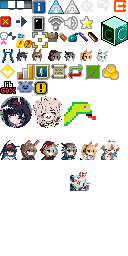
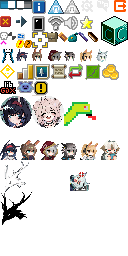
토스

Changed region(s): [[0.0, 0.625, 0.25, 0.875], [0.0312, 0.625, 0.0625, 0.6875]]

diff --git a/Arrrknights/core/src/main/java/com/shatteredpixel/shatteredpixeldungeon/scenes/AboutScene.java b/Arrrknights/core/src/main/java/com/shatteredpixel/shatteredpixeldungeon/scenes/AboutScene.java
@@ -57,22 +57,22 @@ public class AboutScene extends PixelScene {
 
 		//*** Shattered Pixel Dungeon Credits ***
 
-		String shpxLink = "https://ShatteredPixel.com";
+		String shpxLink = "https://www.patreon.com/roguenight";
 		//tracking codes, so that the website knows where this pageview came from
 		shpxLink += "?utm_source=shatteredpd";
 		shpxLink += "&utm_medium=about_page";
 		shpxLink += "&utm_campaign=ingame_link";
 
-		CreditsBlock shpx = new CreditsBlock(true, Window.SHPX_COLOR,
+		CreditsBlock shpx = new CreditsBlock(true, Window.ARKPD_COLOR,
 				"Tomorrow's Roguenight",
 				Icons.SHPX.get(),
 				"Developed by: _NamSek & mizq4482_\nBased on Pixel Dungeon's open source",
-				"ShatteredPixel.com",
+				"www.patreon.com/roguenight",
 				shpxLink);
 		shpx.setRect((w - fullWidth)/2f, 6, 120, 0);
 		content.add(shpx);
 
-		CreditsBlock alex = new CreditsBlock(false, Window.SHPX_COLOR,
+		CreditsBlock alex = new CreditsBlock(false, Window.ARKPD_COLOR,
 				"Pixel Art & Design:",
 				Icons.ALEKS.get(),
 				"NamSek",
@@ -86,7 +86,7 @@ public class AboutScene extends PixelScene {
 		}
 		content.add(alex);
 
-		CreditsBlock charlie = new CreditsBlock(false, Window.SHPX_COLOR,
+		CreditsBlock charlie = new CreditsBlock(false, Window.ARKPD_COLOR,
 				"Programming:",
 				Icons.CHARLIE.get(),
 				"mizq4482",
@@ -94,6 +94,25 @@ public class AboutScene extends PixelScene {
 				"https://mizq4482.tistory.com/");
 		charlie.setRect(alex.right(), alex.top(), colWidth/2f, 0);
 		content.add(charlie);
+
+
+		//*** hypergraph Credits ***
+
+		final int HYPER_COLOR = 0xFFFFFF;
+		CreditsBlock hyper = new CreditsBlock(true, HYPER_COLOR,
+				"Hypergryph",
+				Icons.HYPER.get(),
+				"Graphic & Sound ip used",
+				"hypergryph.com",
+				"https://ak.hypergryph.com/");
+		if (landscape()){
+			hyper.setRect(shpx.left(), shpx.top() + 8, colWidth, 0);
+		} else {
+			hyper.setRect(shpx.left(), alex.bottom() + 8, colWidth, 0);
+		}
+		content.add(hyper);
+
+		addLine(hyper.top() - 4, content);
 
 		//*** Pixel Dungeon Credits ***
 
@@ -105,7 +124,7 @@ public class AboutScene extends PixelScene {
 				"pixeldungeon.watabou.ru",
 				"http://pixeldungeon.watabou.ru");
 		if (landscape()){
-			wata.setRect(shpx.left(), shpx.bottom() + 8, colWidth, 0);
+			wata.setRect(hyper.left(), hyper.bottom() + 8, colWidth, 0);
 		} else {
 			wata.setRect(shpx.left(), alex.bottom() + 8, colWidth, 0);
 		}
@@ -154,7 +173,7 @@ public class AboutScene extends PixelScene {
 
 		CreditsBlock arcnor = new CreditsBlock(false, GDX_COLOR,
 				"Pixel Dungeon GDX:",
-				Icons.ARCNOR.get(),
+				Icons.LIBGDX.get(),
 				"Edu García",
 				"twitter.com/arcnor",
 				"https://twitter.com/arcnor");
@@ -168,7 +187,7 @@ public class AboutScene extends PixelScene {
 
 		CreditsBlock purigro = new CreditsBlock(false, GDX_COLOR,
 				"Shattered GDX Help:",
-				Icons.PURIGRO.get(),
+				Icons.LIBGDX.get(),
 				"Kevin MacMartin",
 				"github.com/prurigro",
 				"https://github.com/prurigro/");
@@ -181,9 +200,9 @@ public class AboutScene extends PixelScene {
 				Window.TITLE_COLOR,
 				null,
 				null,
-				"ShatteredPD is community-translated via _Transifex_! Thank you so much to all of Shattered's volunteer translators!",
-				"www.transifex.com/shattered-pixel/",
-				"https://www.transifex.com/shattered-pixel/shattered-pixel-dungeon/");
+				"Tomorrow's Roguenight is community-translated via _Transifex_! Thank you so much to all of Shattered's volunteer translators!",
+				"www.transifex.com/team-rosemari/",
+				"https://www.transifex.com/team-rosemari/tomorrows-roguenight/");
 		transifex.setRect((Camera.main.width - colWidth)/2f, purigro.bottom() + 8, colWidth, 0);
 		content.add(transifex);
 
@@ -191,40 +210,11 @@ public class AboutScene extends PixelScene {
 
 		addLine(transifex.bottom() + 4, content);
 
-		//*** Freesound Credits ***
 
-		CreditsBlock freesound = new CreditsBlock(true,
-				Window.TITLE_COLOR,
-				null,
-				null,
-				"Shattered Pixel Dungeon uses the following sound samples from _freesound.org_:\n\n" +
+		transifex.setRect(transifex.left()-10, transifex.bottom() + 8, colWidth+20, 0);
+		content.add(transifex);
 
-				"Creative Commons Attribution License:\n" +
-				"_SFX ATTACK SWORD 001.wav_ by _JoelAudio_\n" +
-				"_Pack: Slingshots and Longbows_ by _saturdaysoundguy_\n" +
-				"_Cracking/Crunching, A.wav_ by _InspectorJ_\n" +
-				"_Extracting a sword.mp3_ by _Taira Komori_\n" +
-				"_Pack: Uni Sound Library_ by _timmy h123_\n\n" +
-
-				"Creative Commons Zero License:\n" +
-				"_Pack: Movie Foley: Swords_ by _Black Snow_\n" +
-				"_machine gun shot 2.flac_ by _qubodup_\n" +
-				"_m240h machine gun burst 4.flac_ by _qubodup_\n" +
-				"_Pack: Onomatopoeia_ by _Adam N_\n" +
-				"_Pack: Watermelon_ by _lolamadeus_\n" +
-				"_metal chain_ by _Mediapaja2009_\n" +
-				"_Pack: Sword Clashes Pack_ by _JohnBuhr_\n" +
-				"_Pack: Metal Clangs and Pings_ by _wilhellboy_\n" +
-				"_Pack: Stabbing Stomachs & Crushing Skulls_ by _TheFilmLook_\n" +
-				"_Sheep bleating_ by _zachrau_\n" +
-				"_Lemon,Juicy,Squeeze,Fruit.wav_ by _Filipe Chagas_\n" +
-				"_Lemon,Squeeze,Squishy,Fruit.wav_ by _Filipe Chagas_",
-				"www.freesound.org",
-				"https://www.freesound.org");
-		freesound.setRect(transifex.left()-10, transifex.bottom() + 8, colWidth+20, 0);
-		content.add(freesound);
-
-		content.setSize( fullWidth, freesound.bottom()+10 );
+		content.setSize( fullWidth, transifex.bottom()+10 );
 
 		list.setRect( 0, 0, w, h );
 		list.scrollTo(0, 0);

diff --git a/Arrrknights/core/src/main/java/com/shatteredpixel/shatteredpixeldungeon/scenes/TitleScene.java b/Arrrknights/core/src/main/java/com/shatteredpixel/shatteredpixeldungeon/scenes/TitleScene.java
@@ -243,7 +243,7 @@ public class TitleScene extends PixelScene {
 			}
 
 			if (unreadCount > 0){
-				textColor(ColorMath.interpolate( 0xFFFFFF, Window.SHPX_COLOR, 0.5f + (float)Math.sin(Game.timeTotal*5)/2f));
+				textColor(ColorMath.interpolate( 0xFFFFFF, Window.ARKPD_COLOR, 0.5f + (float)Math.sin(Game.timeTotal*5)/2f));
 			}
 		}
 
@@ -274,7 +274,7 @@ public class TitleScene extends PixelScene {
 			}
 
 			if (updateShown) {
-				textColor(ColorMath.interpolate(0xFFFFFF, Window.SHPX_COLOR, 0.5f + (float) Math.sin(Game.timeTotal * 5) / 2f));
+				textColor(ColorMath.interpolate(0xFFFFFF, Window.ARKPD_COLOR, 0.5f + (float) Math.sin(Game.timeTotal * 5) / 2f));
 			}
 		}
 

diff --git a/Arrrknights/core/src/main/java/com/shatteredpixel/shatteredpixeldungeon/ui/Icons.java b/Arrrknights/core/src/main/java/com/shatteredpixel/shatteredpixeldungeon/ui/Icons.java
@@ -92,7 +92,8 @@ public enum Icons {
 	P_RED,
 	GREY,
 	NEARL,
-	ROSEMARI;
+	ROSEMARI,
+	HYPER;
 
 	public Image get() {
 		return get( this );
@@ -214,7 +215,12 @@ public enum Icons {
 				icon.frame(icon.texture.uvRect(100, 140, 120, 160));
 				break;
 
-		case ENTER:
+			case HYPER:
+				icon.frame(icon.texture.uvRect(0, 160, 32, 192));
+				break;
+
+
+			case ENTER:
 			icon.frame( icon.texture.uvRect( 0, 64, 16, 80 ) );
 			break;
 		case RANKINGS:

diff --git a/Arrrknights/core/src/main/java/com/shatteredpixel/shatteredpixeldungeon/scenes/RankingsScene.java b/Arrrknights/core/src/main/java/com/shatteredpixel/shatteredpixeldungeon/scenes/RankingsScene.java
@@ -107,7 +107,7 @@ public class RankingsScene extends PixelScene {
 				
 				RenderedTextBlock label = PixelScene.renderTextBlock( 8 );
 				label.hardlight( 0xCCCCCC );
-				label.setHightlighting(true, Window.SHPX_COLOR);
+				label.setHightlighting(true, Window.ARKPD_COLOR);
 				label.text( Messages.get(this, "total") + " _" + Rankings.INSTANCE.wonNumber + "_/" + Rankings.INSTANCE.totalNumber );
 				add( label );
 				

diff --git a/Arrrknights/core/src/main/java/com/shatteredpixel/shatteredpixeldungeon/scenes/InterlevelScene.java b/Arrrknights/core/src/main/java/com/shatteredpixel/shatteredpixeldungeon/scenes/InterlevelScene.java
@@ -228,7 +228,7 @@ public class InterlevelScene extends PixelScene {
 				}
 			};
 			install.icon(Icons.get(Icons.CHANGES));
-			install.textColor(Window.SHPX_COLOR);
+			install.textColor(Window.ARKPD_COLOR);
 			install.setSize(install.reqWidth()+5, 20);
 			install.setPos((Camera.main.width - install.width())/2, (Camera.main.height - message.bottom())/3 + message.bottom());
 			add(install);

diff --git a/Arrrknights/core/src/main/java/com/shatteredpixel/shatteredpixeldungeon/ui/Window.java b/Arrrknights/core/src/main/java/com/shatteredpixel/shatteredpixeldungeon/ui/Window.java
@@ -48,7 +48,7 @@ public class Window extends Group implements Signal.Listener<KeyEvent> {
 
 	public static final int WHITE = 0xFFFFFF;
 	public static final int TITLE_COLOR = 0xFFFF44;
-	public static final int SHPX_COLOR = 0x33BB33;
+	public static final int ARKPD_COLOR = 0x7EA19E;
 	
 	public Window() {
 		this( 0, 0, 0, Chrome.get( Chrome.Type.WINDOW ) );

diff --git a/Arrrknights/core/src/main/java/com/shatteredpixel/shatteredpixeldungeon/ui/UpdateNotification.java b/Arrrknights/core/src/main/java/com/shatteredpixel/shatteredpixeldungeon/ui/UpdateNotification.java
@@ -33,7 +33,7 @@ public class UpdateNotification extends StyledButton {
 
 	public UpdateNotification(){
 		super( Chrome.Type.GREY_BUTTON_TR, Messages.get(UpdateNotification.class, "title") );
-		textColor( Window.SHPX_COLOR );
+		textColor( Window.ARKPD_COLOR );
 		visible = false;
 		Updates.checkForUpdate();
 	}

diff --git a/Arrrknights/core/src/main/java/com/shatteredpixel/shatteredpixeldungeon/windows/WndGame.java b/Arrrknights/core/src/main/java/com/shatteredpixel/shatteredpixeldungeon/windows/WndGame.java
@@ -68,7 +68,7 @@ public class WndGame extends Window {
 					Updates.launchInstall();
 				}
 			} );
-			curBtn.textColor(Window.SHPX_COLOR);
+			curBtn.textColor(Window.ARKPD_COLOR);
 			curBtn.icon(Icons.get(Icons.CHANGES));
 		}
 
